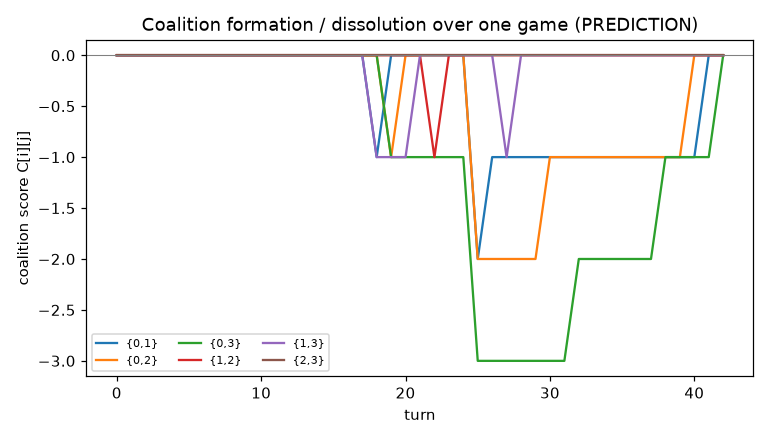
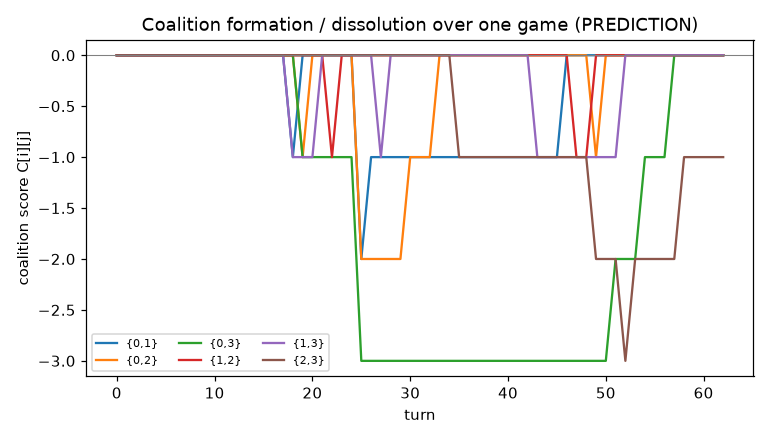
Step 11: fold in scale-config run results
Ran tournament.py --config scale (chips=7, 6000 train games); wrote
results/scale_results.json and regenerated plots/*.png at scale. Appended a
scale subsection to EXECUTION_NOTES.md.

Key finding (WORKFLOW S0.1, kept honest): the headline check-4 direction does
NOT survive scale-up. Shapley coalition score 0.002 is NOT > sparse 0.003
(smoke had 0.011 > 0.007) -- the proxy_coalition_values signal is too weak to
separate the populations at longer training / larger game, exactly the risk
the README likely-to-break list named. Check 5 cyclic ratio trends up with
scale (0.069 -> 0.308) but the meta-game stays transitive-dominant.

diff --git a/implementation/step11/EXECUTION_NOTES.md b/implementation/step11/EXECUTION_NOTES.md
@@ -131,3 +131,37 @@ likewise shipped an honest red FAIL. The Shapley machinery and detector themselv
 ### Static picture confirmed
 No SKIPs (torch present); every suite ran for real. `results/smoke_results.json` + 4 PNGs written.
 Smoke training is ~seconds (tiny nets), far under the config's conservative estimate.
+
+### Scale run (`results/scale_results.json`) — the headline does NOT survive scale-up
+
+Ran `tournament.py --config scale` (chips=7, `train_games=6000`, bigger nets, `eval_winrate_games=1000`,
+`egta_games_per_cell=300`). It finished in **minutes, not the ~1.5–2.5 h** the config conservatively
+predicted — SLS rollouts are light and the nets are small. Plots regenerated with `--config scale`;
+since `plotting.py` uses fixed filenames, the committed `plots/*.png` now reflect the **scale** config
+(the smoke PNGs were transient); `results/` keeps **both** JSONs.
+
+| Method | WinRate vs Random (scale) | Coalition Score (scale) |
+|---|---|---|
+| Random baseline | 0.250 | 0.000 |
+| MAPPO (sparse reward) | 0.829 | **0.003** |
+| MAPPO + Shapley (this step) | 0.827 | **0.002** |
+
+**Check 4 flips to FAIL at scale (§0.1 — a real finding, kept red).** At smoke the Shapley agent's
+coalition score beat sparse (0.011 > 0.007); at scale the two collapse into noise and the direction
+**reverses** (0.002 vs 0.003 → "Shapley > sparse? **False**"), and both are ~4–5× smaller than at
+smoke. This is precisely the risk called out in the README "Likely to break" #4: the training reward
+uses `proxy_coalition_values` (a synergy-weighted sum of critic value estimates), **not** the true
+counterfactual win-probability, and the proxy is too weak to separate the populations once training is
+longer / the game is bigger. So the primary thesis signal (raw L560) is **positive at smoke, null at
+scale** — the honest headline. Suspected fixes (deferred to consolidation): use the rollout-based
+counterfactual coalition value at lower frequency, or tune `alpha` / the credit normalization.
+
+**Check 5 trends toward the prediction but does not reach it.** Cyclic ratio rises with scale
+(`0.069 → 0.308`; transitive `0.998 → 0.951`), i.e. a richer trained population injects more
+non-transitivity — the direction raw L561 predicts — but the meta-game is **still transitive-dominant**,
+because the seat-0 skill-ladder (above) dwarfs the coalition cycling. Check 5 stays **red**.
+
+**Net.** Two independent effects compound: (i) the engine seat-0 bias (checks 3 & 5), and (ii) the
+proxy-Shapley weakness (check 4 at scale). Both are documented, reproducible, and left as genuine
+findings for the engine-reconciliation + credit-signal work in consolidation — no thresholds were
+tweaked and no FAIL was silenced (WORKFLOW §0.1).
